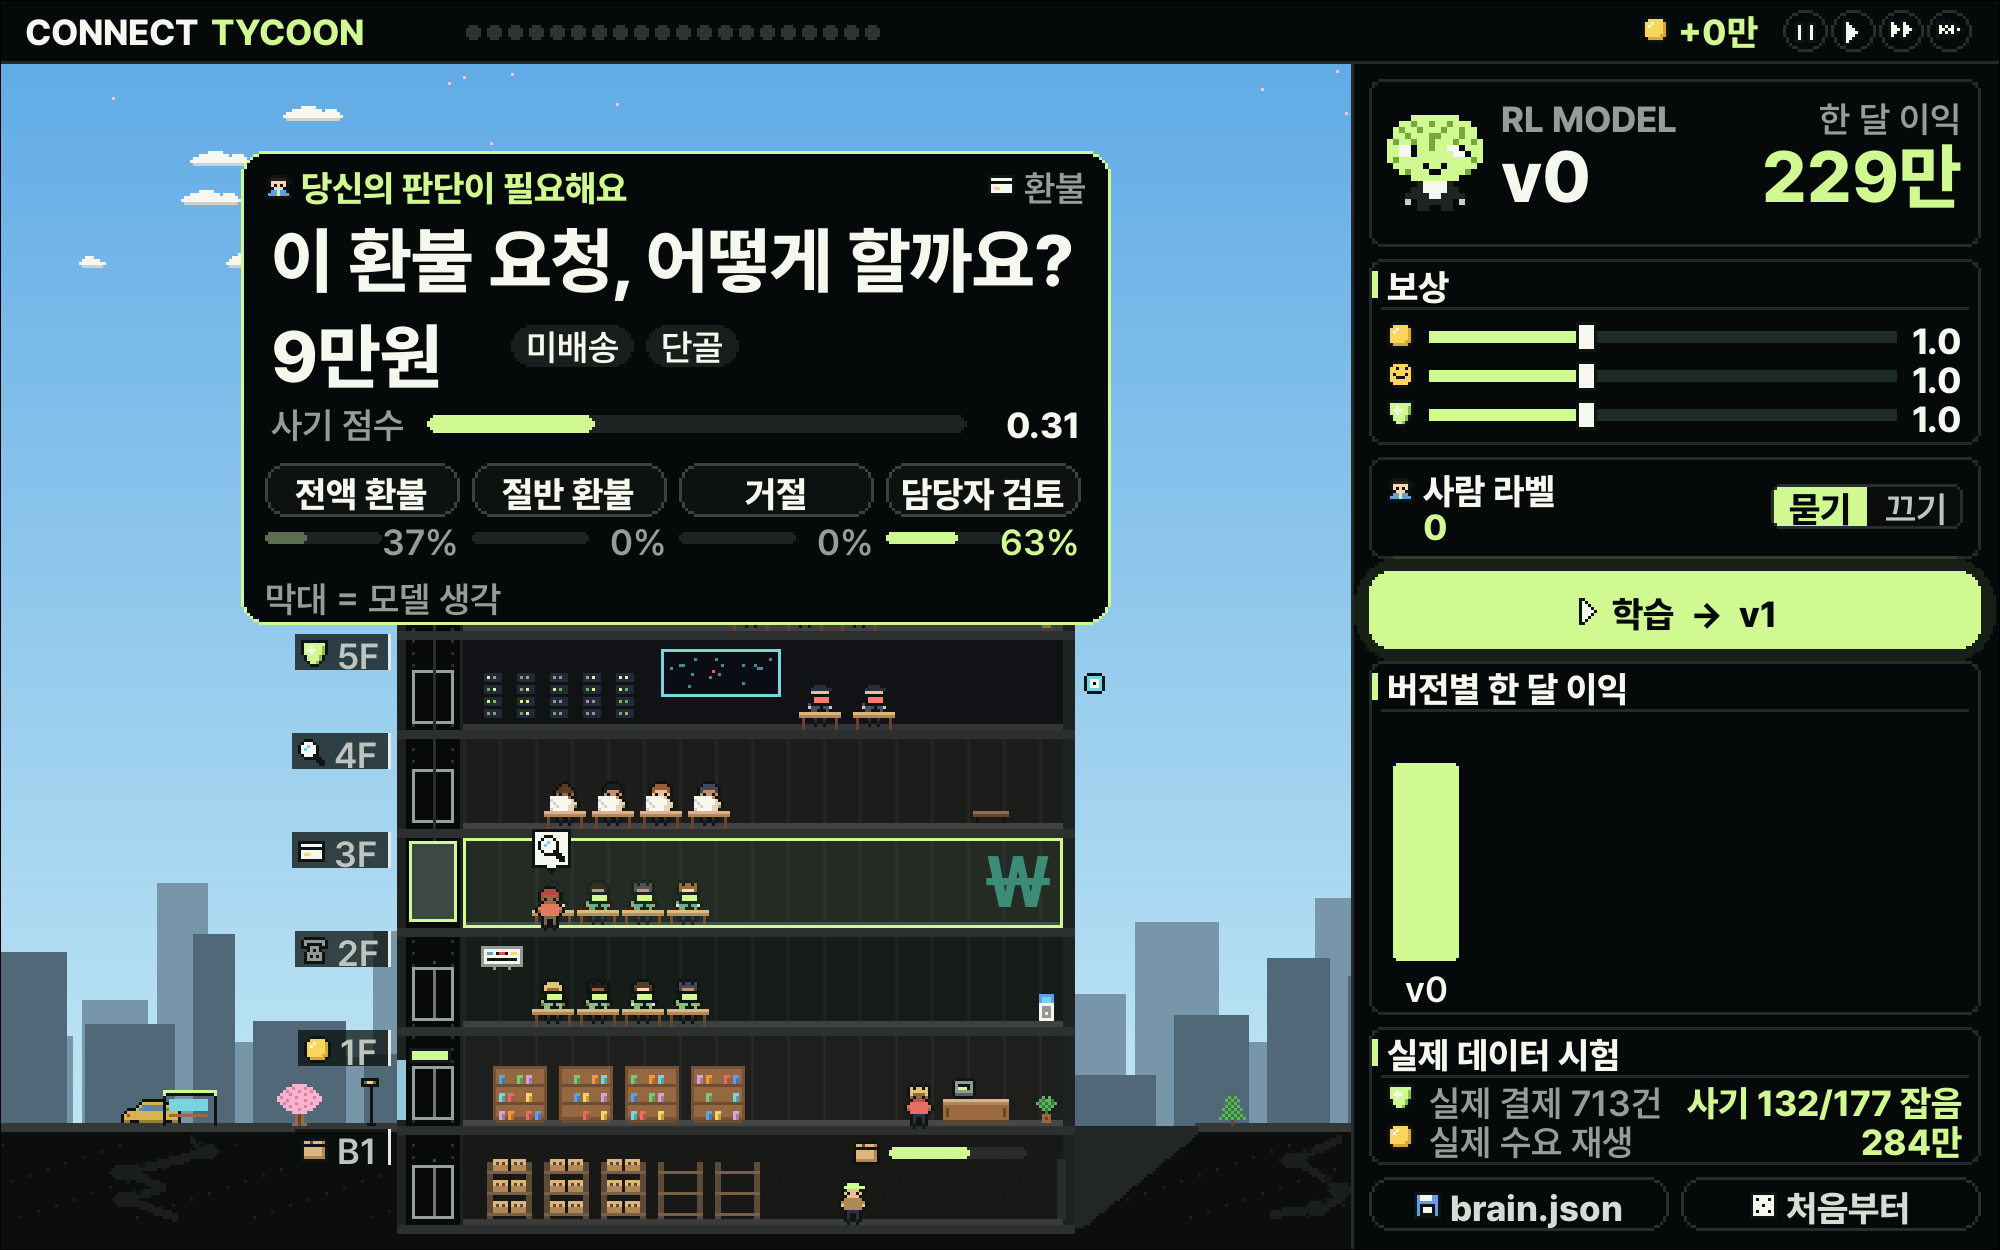
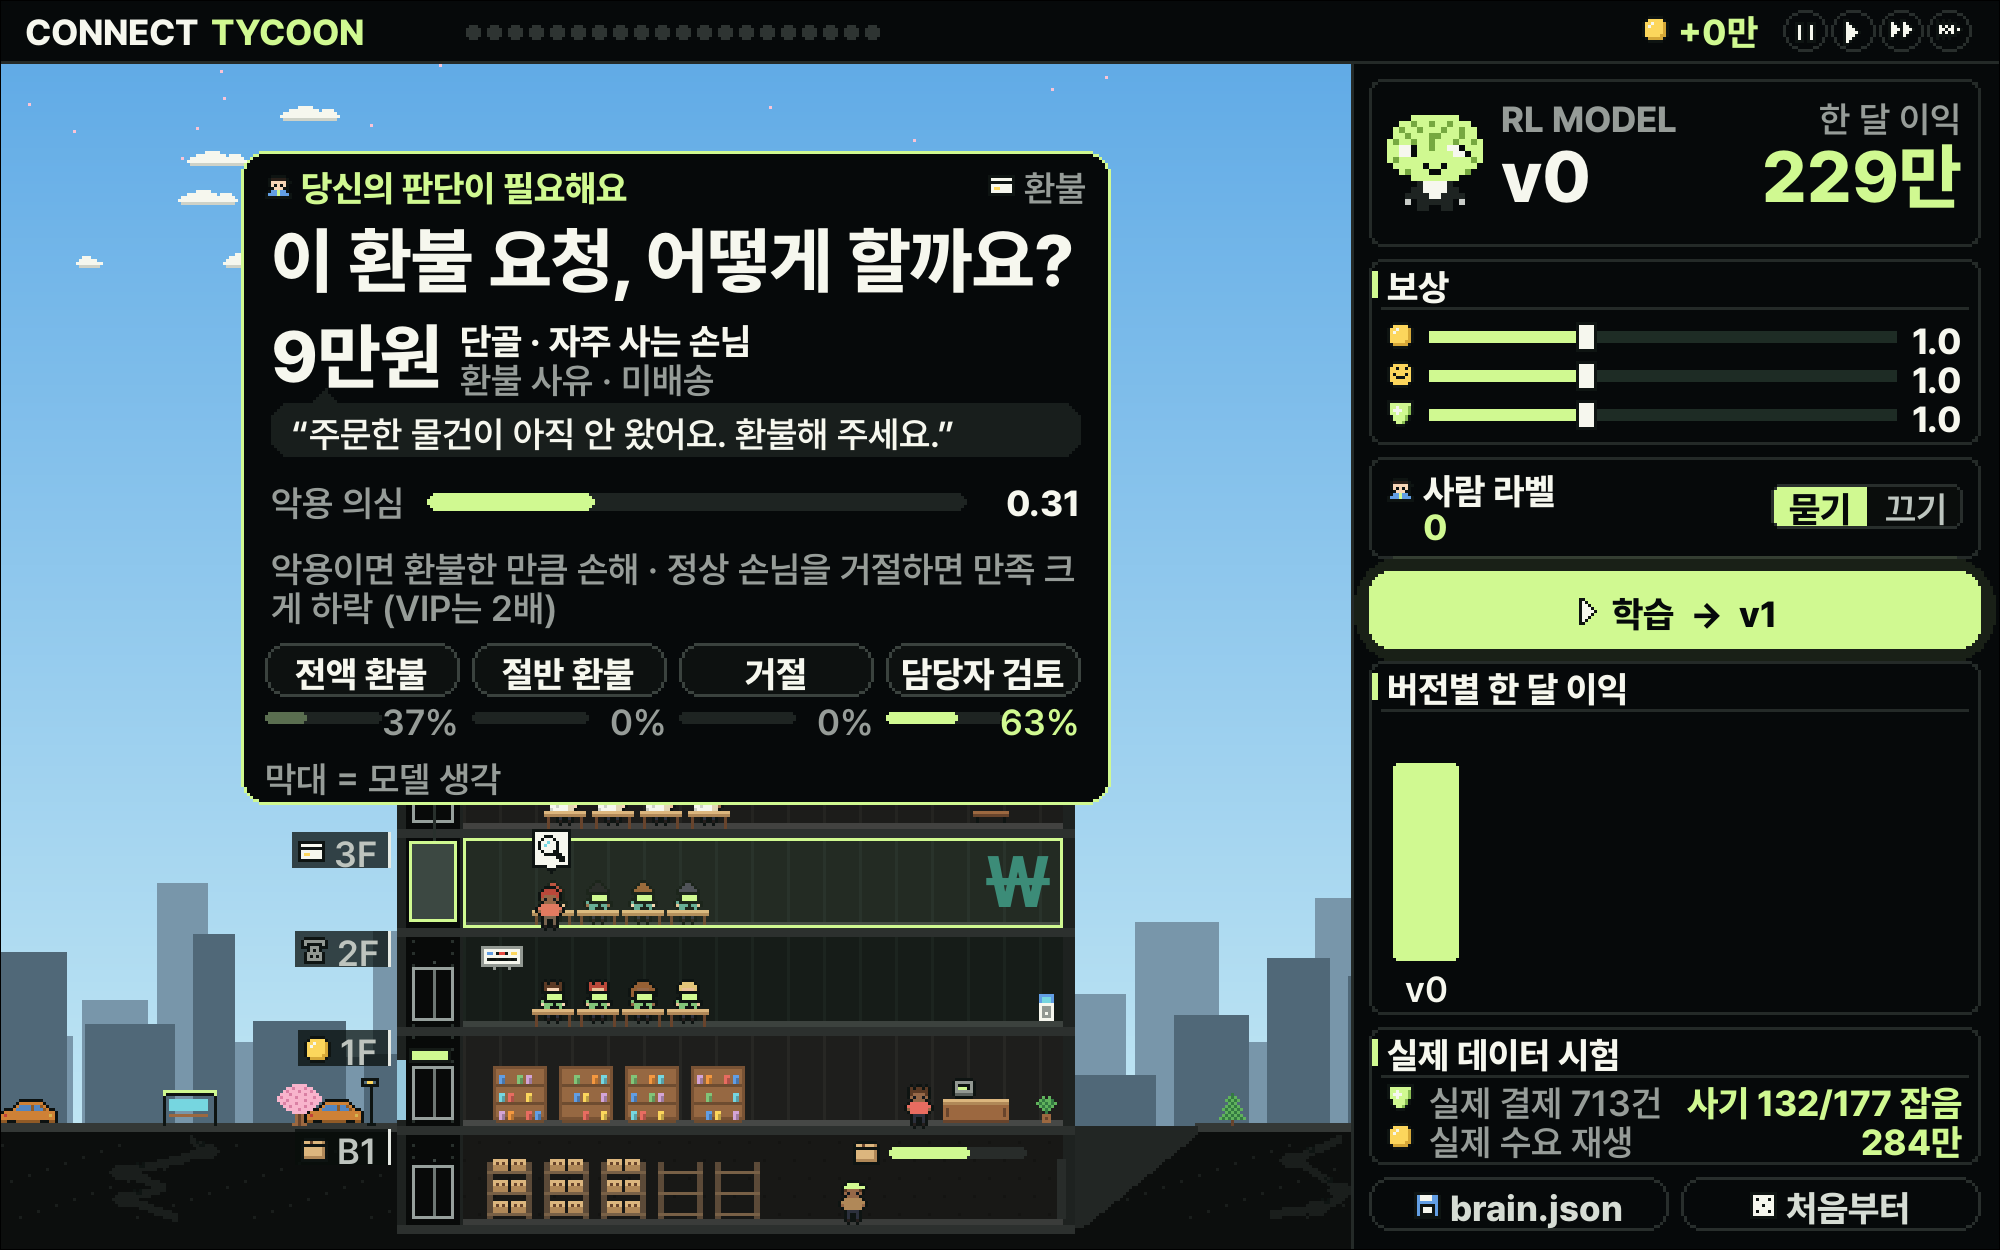
Review card: customer story, quote bubble and what each choice costs

diff --git a/connect_tycoon/game/studio.py b/connect_tycoon/game/studio.py
@@ -27,6 +27,13 @@ SHORT_ACT = {"즉시 처리": "바로 처리", "일반 처리": "순서대로", 
 QUESTION = {"security": "이 결제를 통과시킬까요?", "refund": "이 환불 요청, 어떻게 할까요?", "cs": "이 문의를 어디로 보낼까요?"}
 REWARD_TIP = {"이익": "이익 · 번 돈이 얼마나 중요한가", "고객 만족": "고객 만족 · 손님 기분이 얼마나 중요한가", "위험": "위험 회피 · 사고를 얼마나 피할까"}
 STREAM_NAME = {"staffing": "인력", "inventory": "재고", "marketing": "광고", "cs": "문의", "refund": "환불", "security": "결제"}
+# 카드에 보이는 손님의 사정 · 엔진의 사유 · 등급 · 신호를 사람이 읽는 말로
+REFUND_QUOTE = {"불량": "받아 보니 고장 나 있어요. 환불해 주세요.", "미배송": "주문한 물건이 아직 안 왔어요. 환불해 주세요.",
+                "단순 변심": "마음이 바뀌었어요. 환불해 주세요.", "의심": "이유는 말하기 어렵고요, 그냥 환불해 주세요."}
+TIER_DESC = {"신규": "신규 · 처음 산 손님", "단골": "단골 · 자주 사는 손님", "VIP": "VIP · 가장 많이 사는 손님"}
+STAKES = {"refund": "악용이면 환불한 만큼 손해 · 정상 손님을 거절하면 만족 크게 하락 (VIP는 2배)",
+          "security": "사기를 통과시키면 금액만큼 손해 · 정상 결제를 막으면 금액의 30% 손해",
+          "cs": "위험한 문의를 사람이 안 보면 사고 · 급한 문의를 미루면 만족 하락"}
 REAL_TIP = "학습에 쓰지 않은 실제 기록으로 다시 채점 · 카드 거래 검토 대기열(ULB) · 소매 · 호텔 · 자전거 대여의 하루 수요"
 
 
@@ -352,7 +359,8 @@ class Studio:
         resp = x["jev"]["response"]["answers"]["decision"]
         W = 290
         lines = f.wrap(ev["message"], W - 24)[:3] if dept == "cs" else []
-        H = 22 + 30 + (len(lines) * 13 + 6 if dept == "cs" else 48) + 58
+        stakes = STAKES[dept].split(" · ")                              # 두 줄 · 끊는 곳을 정해 둡니다
+        H = 22 + 30 + (len(lines) * 13 + 6 if dept == "cs" else 76) + 13 * len(stakes) + 6 + 58
         wr = a.world_rect
         r = pygame.Rect(wr.centerx - W // 2, HEAD + 30, W, H)
         cover(surf, r.inflate(4, 4))
@@ -367,16 +375,24 @@ class Studio:
         yy = r.y + 22 + 32
         if dept in ("refund", "security"):
             ui.label(surf, man(ev["amount"]) + "원", r.x + 10, yy, WHITE, bold=True, k=2)
-            chips = [ev["reason"], ev["tier"]] if dept == "refund" else [s for s, on in (("새 기기", ev["new_device"]), ("해외", ev["overseas"])) if on]
-            cx = r.x + 90
-            for c in chips:
-                wc = f.width(c) + 10
-                pygame.draw.rect(surf, (24, 30, 28), (cx, yy + 4, wc, 14), border_radius=7)
-                ui.label(surf, c, cx + 5, yy + 4, WHITE)
-                cx += wc + 4
+            ax = r.x + 16 + f.width(man(ev["amount"]) + "원", bold=True, k=2)
+            if dept == "refund":
+                who, sub = TIER_DESC.get(ev["tier"], ev["tier"]), f"환불 사유 · {ev['reason']}"
+                quote = REFUND_QUOTE.get(ev["reason"], "환불해 주세요.")
+            else:
+                sig = [t for t, on in (("새 기기에서", ev["new_device"]), ("해외에서", ev["overseas"]), ("짧은 시간에 여러 번", ev["velocity"] > 0.5)) if on]
+                who, sub = "온라인 결제", "평소와 다른 점 " + str(len(sig)) + "개"
+                quote = " · ".join(sig) + " 결제" if sig else "평소 쓰던 기기 · 국내 · 평소 속도로 결제"
+            ui.label(surf, who, ax, yy + 2, WHITE, bold=True)
+            ui.label(surf, sub, ax, yy + 15, MUTED)
             yy += 30
+            qb = pygame.Rect(r.x + 10, yy, W - 20, 18)                 # 손님의 말 (말풍선)
+            pygame.draw.rect(surf, (24, 30, 28), qb, border_radius=6)
+            pygame.draw.polygon(surf, (24, 30, 28), [(qb.x + 12, qb.y), (qb.x + 18, qb.y - 5), (qb.x + 22, qb.y)])
+            ui.label(surf, ("“" + quote + "”") if dept == "refund" else quote, qb.x + 7, qb.y + 3, WHITE)
+            yy += 26
             fs = ev["fraud_score"]
-            ui.label(surf, "사기 점수", r.x + 10, yy, MUTED)
+            ui.label(surf, "악용 의심" if dept == "refund" else "사기 의심", r.x + 10, yy, MUTED)
             bx, bw = r.x + 62, W - 110
             pygame.draw.rect(surf, (30, 36, 34), (bx, yy + 4, bw, 6), border_radius=3)
             pygame.draw.rect(surf, ACID if fs < 0.5 else RED, (bx, yy + 4, int(bw * fs), 6), border_radius=3)
@@ -385,6 +401,8 @@ class Studio:
         else:
             for k_, line in enumerate(lines):
                 ui.label(surf, line, r.x + 10, yy + k_ * 13, WHITE)
+        for k_, line in enumerate(stakes):                                  # 각 선택의 결과 (결과표)
+            ui.label(surf, line, r.x + 10, r.bottom - 60 - 13 * (len(stakes) - k_), MUTED)
         acts, keys = ct.DEPTS[dept]["actions"], ct.DEPTS[dept]["keys"]
         n = len(acts)
         bw = (W - 16 - 4 * (n - 1)) // n
